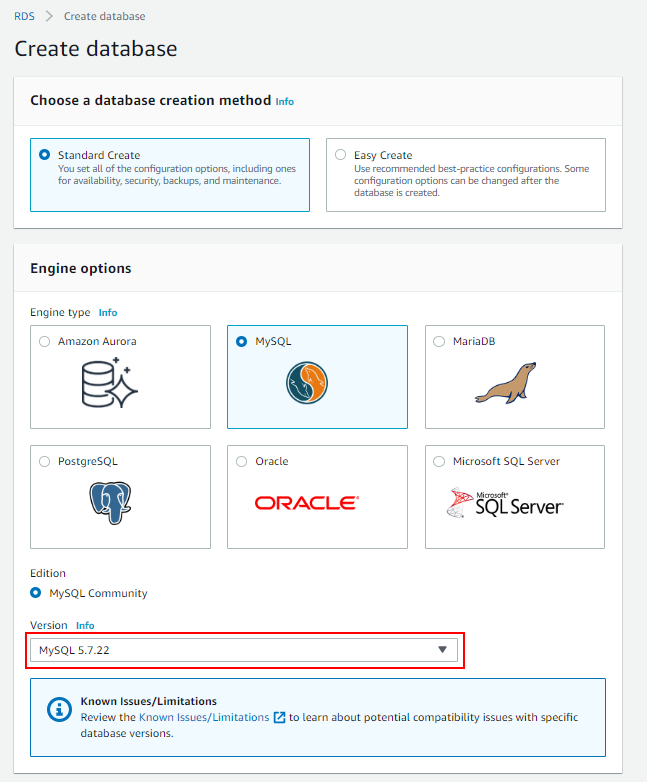
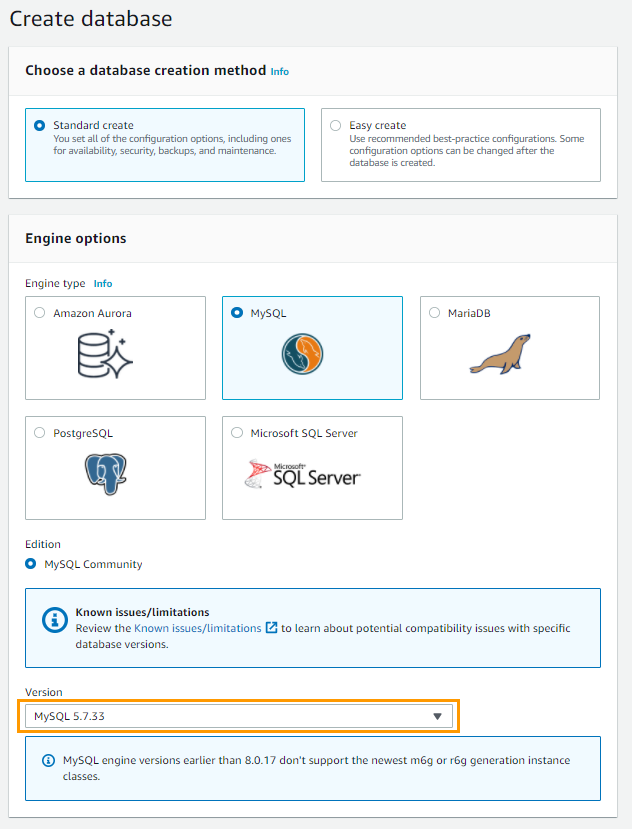
mysql version -> 5.7.33 in en and langs that use the same image

diff --git a/workshop/content/database-migration/Create-target-DB.de.md b/workshop/content/database-migration/Create-target-DB.de.md
@@ -33,7 +33,7 @@ wählen Sie im Menü links **Subnet Groups** aus und klicken Sie auf **Create DB
 ### Erstellen Sie die Zieldatenbank    
 
 1. Wählen Sie nun im Menü links **Databases** aus und klicken Sie auf **Create database**.
-2. Wählen Sie unter **Engine options** MySQL und die MySQL 5.7.22 Version aus
+2. Wählen Sie unter **Engine options** MySQL und die MySQL 5.7.33 Version aus
 
     ![1](/db-mig/1.png)
 

diff --git a/workshop/content/database-migration/Create-target-DB.fr.md b/workshop/content/database-migration/Create-target-DB.fr.md
@@ -29,7 +29,7 @@ Avant de configurer **AWS DMS**, vous allez devoir créer votre base de données
     
 1. Maintenant sélectionnez **Databases** à partir du menu de gauche et cliquez sur **Create database** 
 
-2. Dans **Engine options**, sélectionnez MySQL et Version MySQL 5.7.22
+2. Dans **Engine options**, sélectionnez MySQL et Version MySQL 5.7.33
 
     ![1](/db-mig/1.png)
 

diff --git a/workshop/content/database-migration/Create-target-DB.it.md b/workshop/content/database-migration/Create-target-DB.it.md
@@ -29,7 +29,7 @@ Prima di configurare **AWS DMS**, dovrai creare il database di destinazione nell
 
 1. Ora selezionare **Databases** dal menu a sinistra e selezionare **Create database**
 
-2. Dal menu **Engine options**, selezionare MySQL con Version MySQL 5.7.22
+2. Dal menu **Engine options**, selezionare MySQL con Version MySQL 5.7.33
 
     ![1](/db-mig/1.png)
 

diff --git a/workshop/content/database-migration/Create-target-DB.es.md b/workshop/content/database-migration/Create-target-DB.es.md
@@ -29,7 +29,7 @@ Antes de configurar **AWS DMS**, deberá crear su base de datos de destino en la
     
 1. Ahora seleccione **Databases** en el menú de la izquierda y haga clic en **Create database** 
 
-2. En **Engine options**, seleccione MySQL y Versión MySQL 5.7.22
+2. En **Engine options**, seleccione MySQL y Versión MySQL 5.7.33
 
     ![1](/db-mig/1.png)
 

diff --git a/workshop/content/database-migration/Create-target-DB.pt.md b/workshop/content/database-migration/Create-target-DB.pt.md
@@ -29,7 +29,7 @@ Antes de configurar o **AWS DMS**, você precisará criar um banco de dados de d
     
 1. Agora selecione **Databases** no menu à esquerda e clique **Create database** 
 
-2. A partir de **Engine options**, selecione MySQL e Version MySQL 5.7.22
+2. A partir de **Engine options**, selecione MySQL e Version MySQL 5.7.33
 
     ![1](/db-mig/1.png)
 

diff --git a/workshop/content/database-migration/Create-target-DB.nl.md b/workshop/content/database-migration/Create-target-DB.nl.md
@@ -30,7 +30,7 @@ Voordat je **AWS DMS** configureert, dien je eerst de database in de doelomgevin
 
 1. Selecteer **Databases** uit het menu aan de linkerkant en druk op **Create database**
 
-2. Onder **Engine options**, kies **MySQL** en versie **MySQL 5.7.22**
+2. Onder **Engine options**, kies **MySQL** en versie **MySQL 5.7.33**
 
     ![1](/db-mig/1.png)
 

diff --git a/workshop/content/database-migration/Create-target-DB.en.md b/workshop/content/database-migration/Create-target-DB.en.md
@@ -29,7 +29,7 @@ Before you configure **AWS DMS**, you will need to create your target database i
 
 1. Now select **Databases** from the menu on the left and click **Create database**
 
-2. From the **Engine options**, select MySQL and Version MySQL 5.7.22
+2. From the **Engine options**, select MySQL and Version MySQL 5.7.33
 
     ![1](/db-mig/1.png)
 
